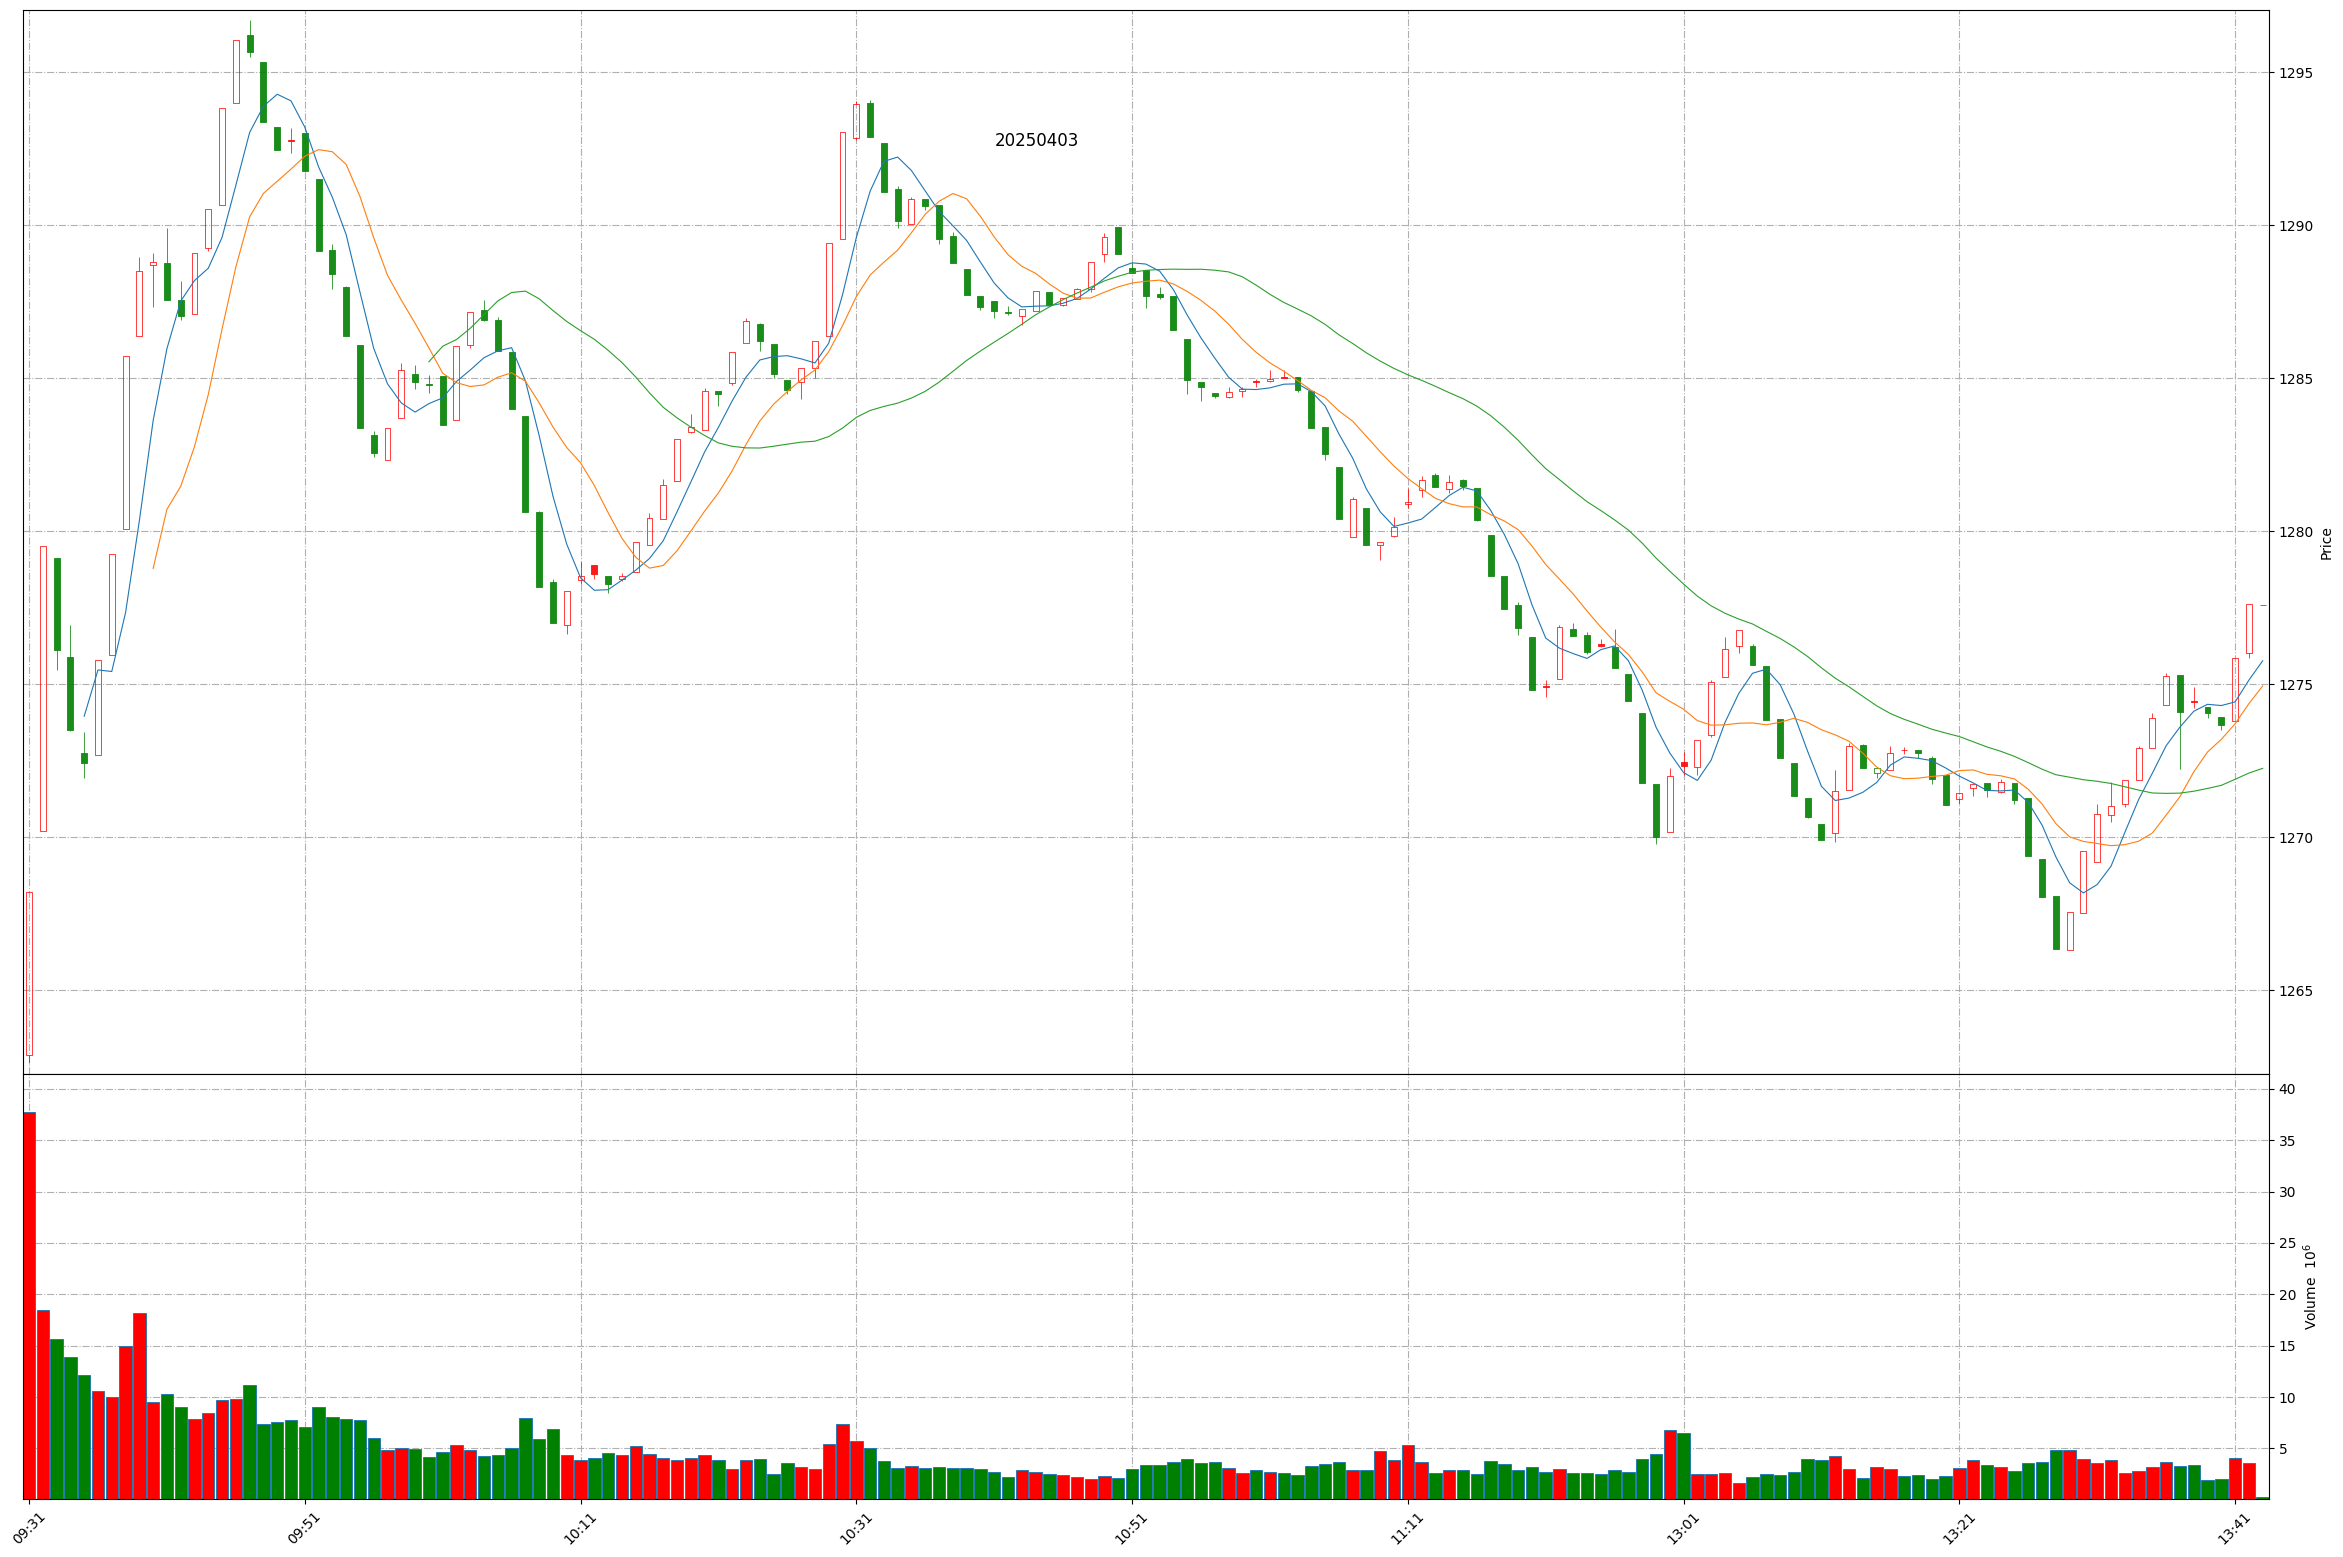
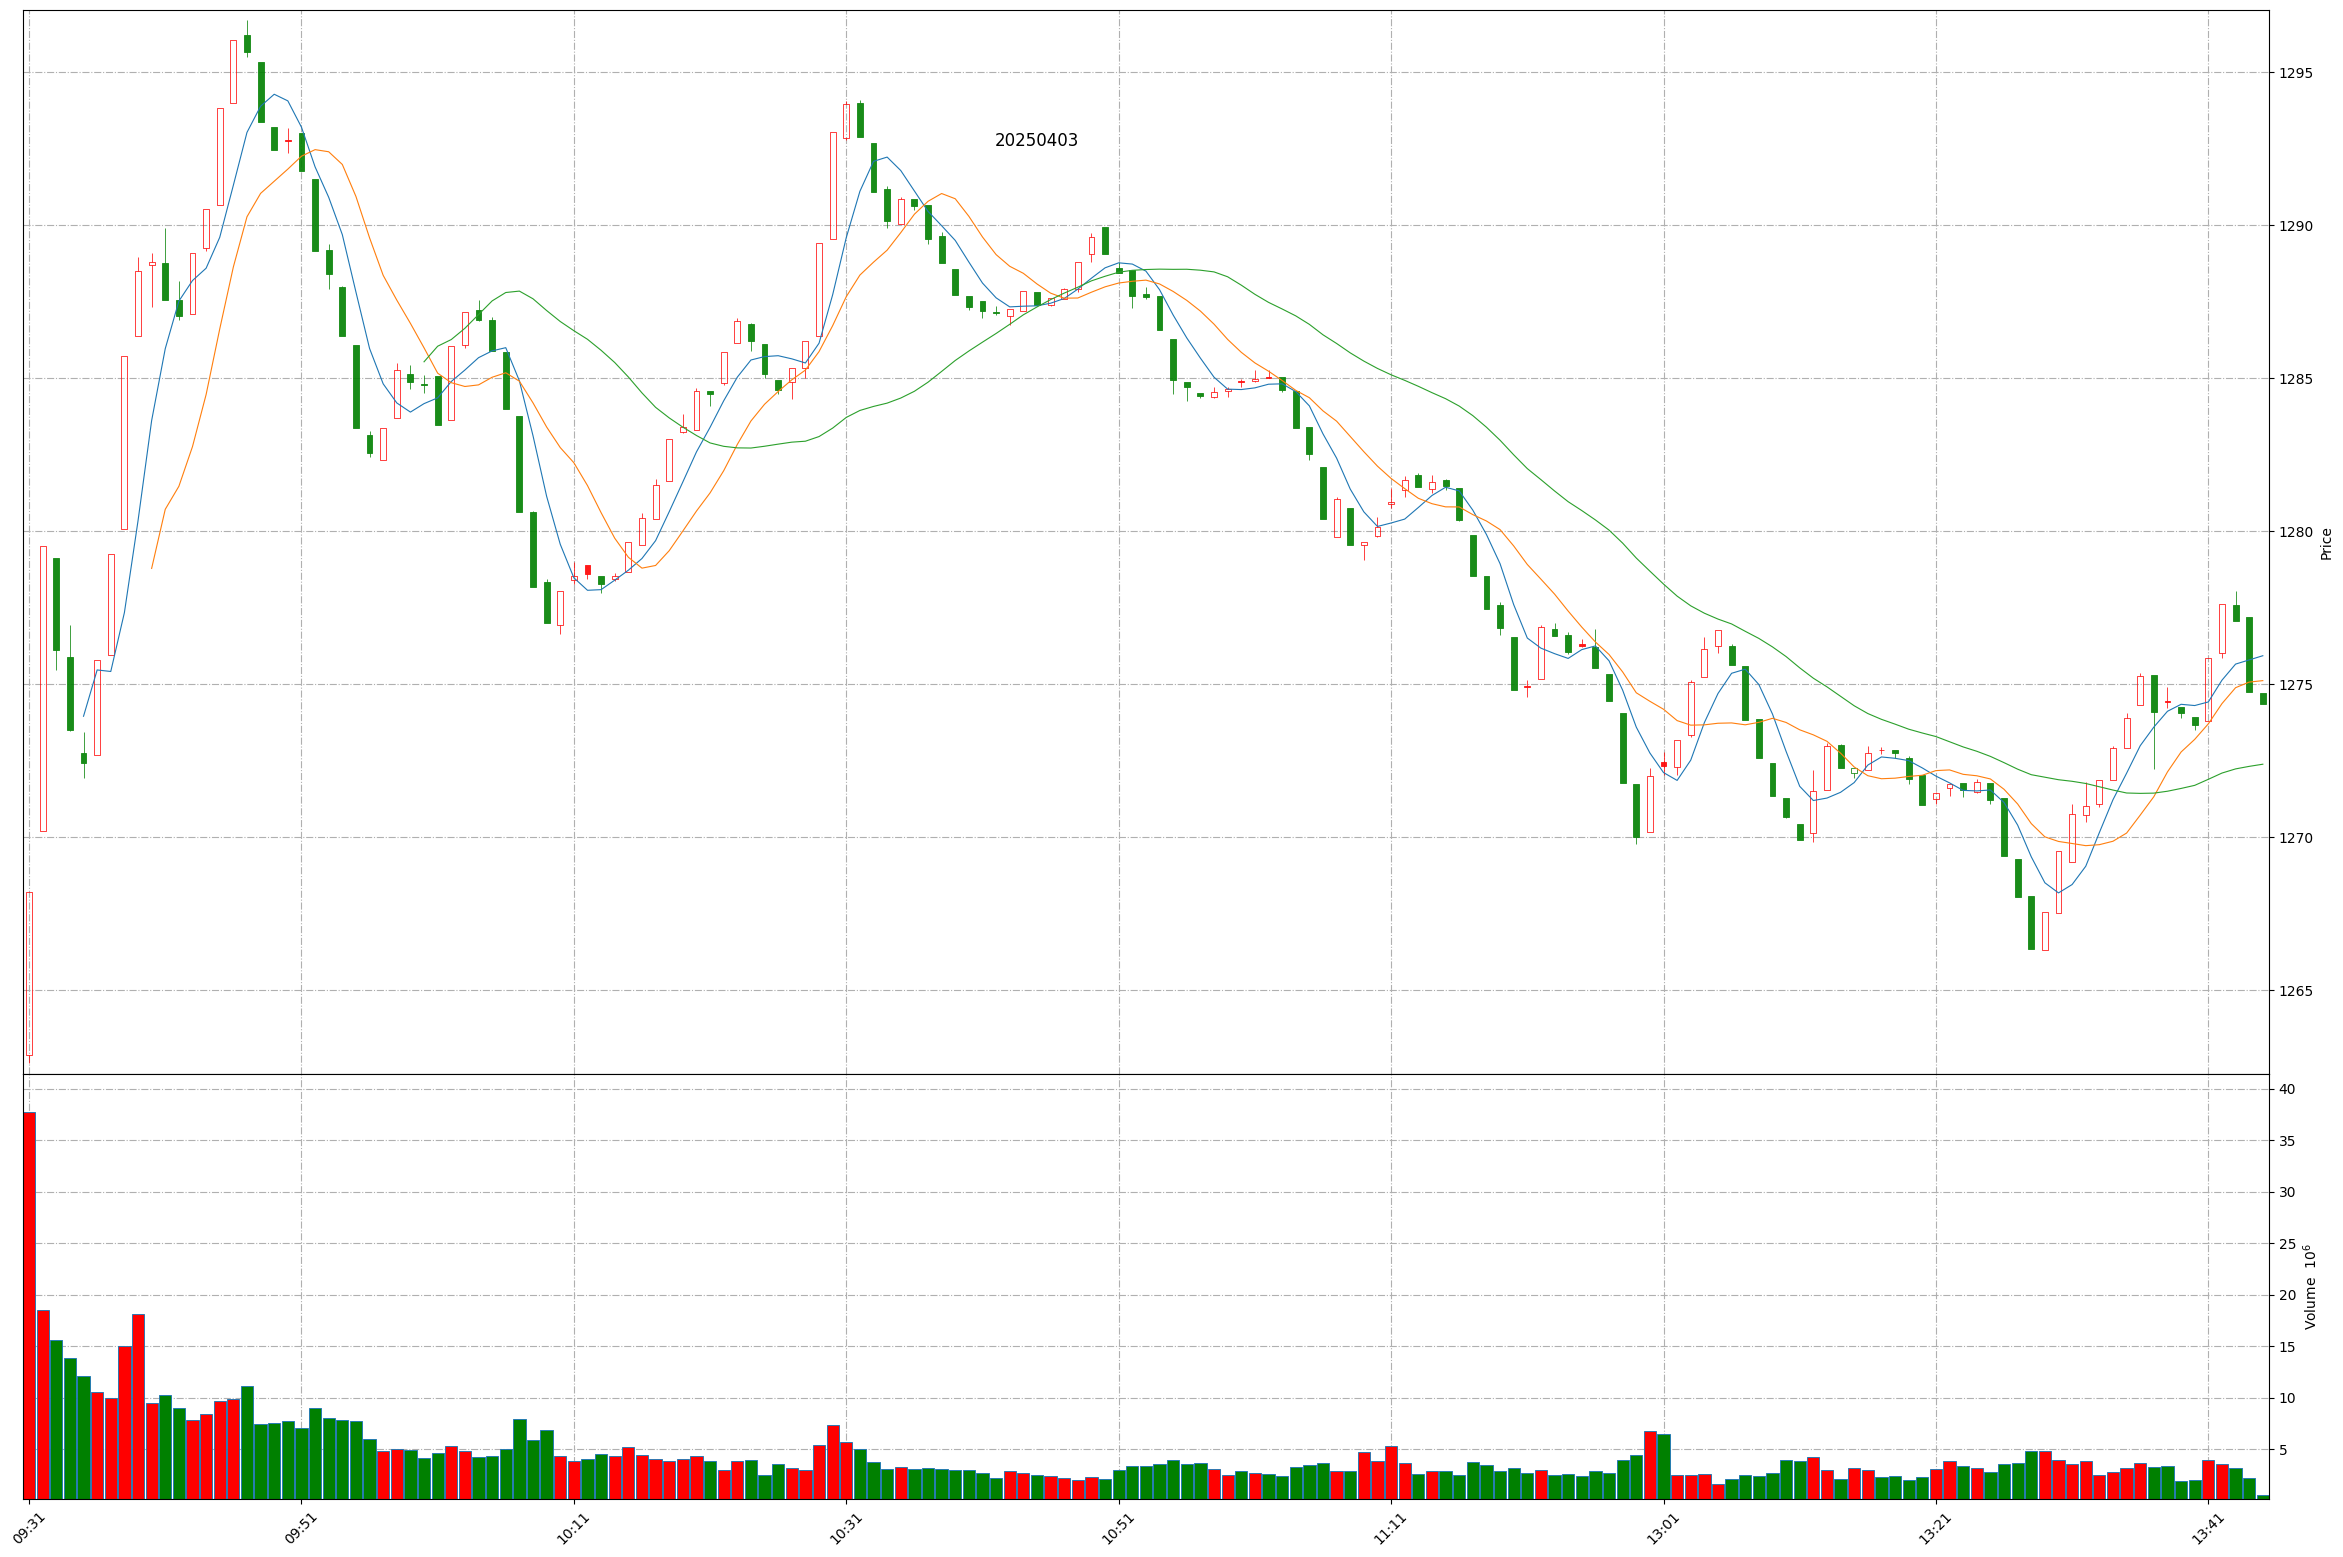
Github action update at 2025-04-03 13:44:32.

diff --git a/README.md b/README.md
@@ -1,11 +1,11 @@
 
 # Daily-A-share-market-quotes 每日 A 股指数（5min 更新）- 20250403
 
-### 上证指数 20250403 13:42
+### 上证指数 20250403 13:44
 ![](./fig/2025/4/20250403-sh000001.png)
 
-### 深证成指 20250403 13:42
+### 深证成指 20250403 13:44
 ![](./fig/2025/4/20250403-sz399001.png)
 
-### 北证50 20250403 13:42
+### 北证50 20250403 13:44
 ![](./fig/2025/4/20250403-bj899050.png)
